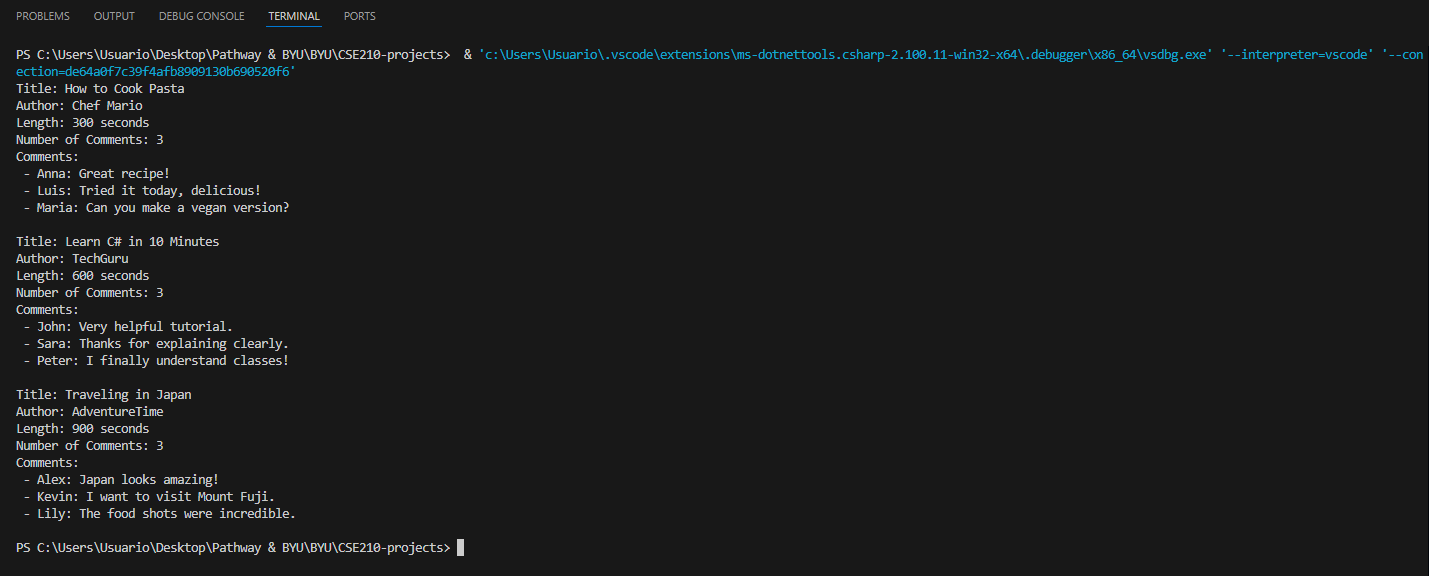
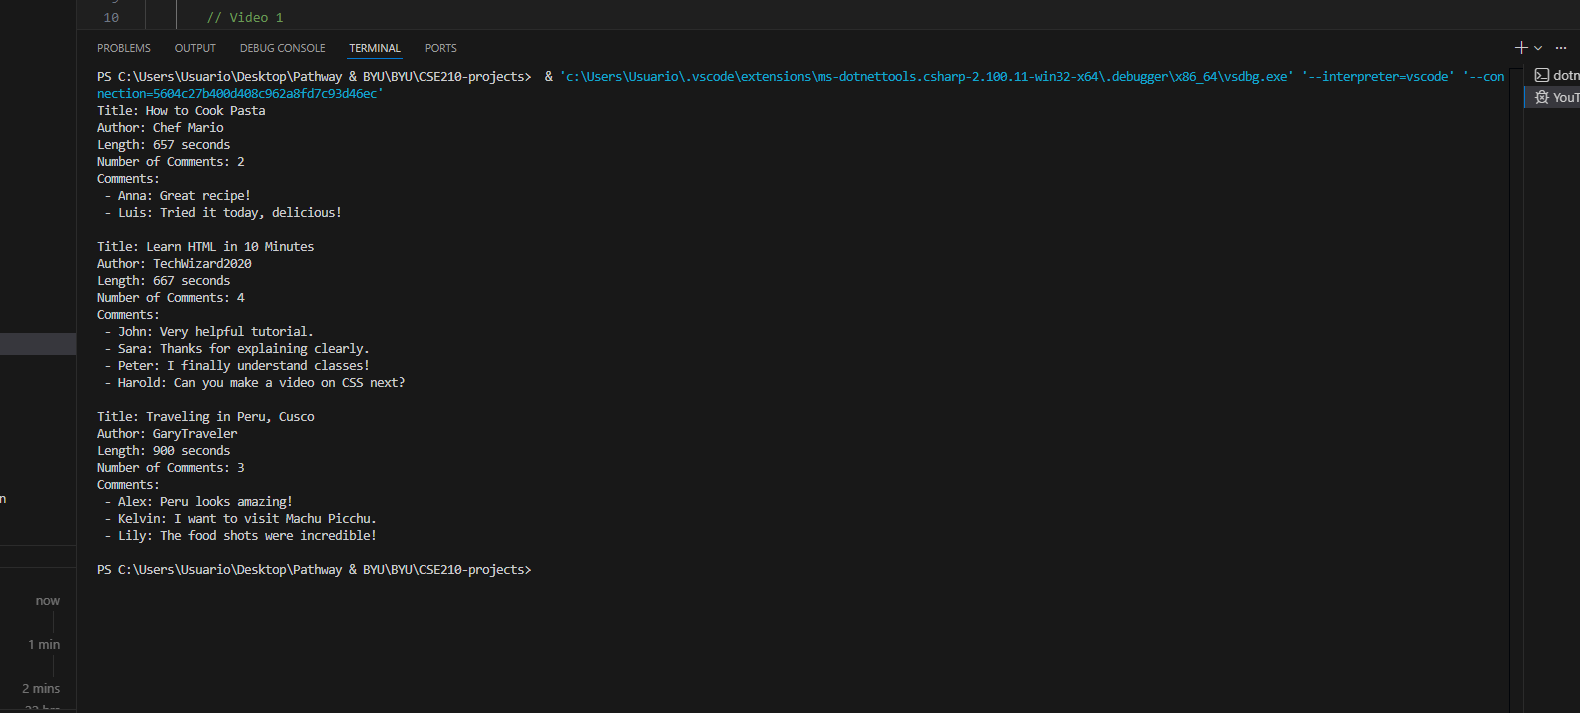
Add files via upload

Changed region(s): [[0.0, 0.0, 1.0, 0.9062], [0.0, 0.9375, 0.3387, 0.9688]]

diff --git a/week04/YouTubeVideos/Program.cs b/week04/YouTubeVideos/Program.cs
@@ -8,24 +8,24 @@ class Program
         List<Video> videos = new List<Video>();
 
         // Video 1
-        Video video1 = new Video("How to Cook Pasta", "Chef Mario", 300);
+        Video video1 = new Video("How to Cook Pasta", "Chef Mario", 657);
         video1.AddComment(new Comment("Anna", "Great recipe!"));
         video1.AddComment(new Comment("Luis", "Tried it today, delicious!"));
-        video1.AddComment(new Comment("Maria", "Can you make a vegan version?"));
         videos.Add(video1);
 
         // Video 2
-        Video video2 = new Video("Learn C# in 10 Minutes", "TechGuru", 600);
+        Video video2 = new Video("Learn HTML in 10 Minutes", "TechWizard2020", 667);
         video2.AddComment(new Comment("John", "Very helpful tutorial."));
         video2.AddComment(new Comment("Sara", "Thanks for explaining clearly."));
         video2.AddComment(new Comment("Peter", "I finally understand classes!"));
+        video2.AddComment(new Comment("Harold", "Can you make a video on CSS next?"));
         videos.Add(video2);
 
         // Video 3
-        Video video3 = new Video("Traveling in Japan", "AdventureTime", 900);
-        video3.AddComment(new Comment("Alex", "Japan looks amazing!"));
-        video3.AddComment(new Comment("Kevin", "I want to visit Mount Fuji."));
-        video3.AddComment(new Comment("Lily", "The food shots were incredible."));
+        Video video3 = new Video("Traveling in Peru, Cusco", "GaryTraveler", 900);
+        video3.AddComment(new Comment("Alex", "Peru looks amazing!"));
+        video3.AddComment(new Comment("Kelvin", "I want to visit Machu Picchu."));
+        video3.AddComment(new Comment("Lily", "The food shots were incredible!"));
         videos.Add(video3);
 
         // Display all video info
